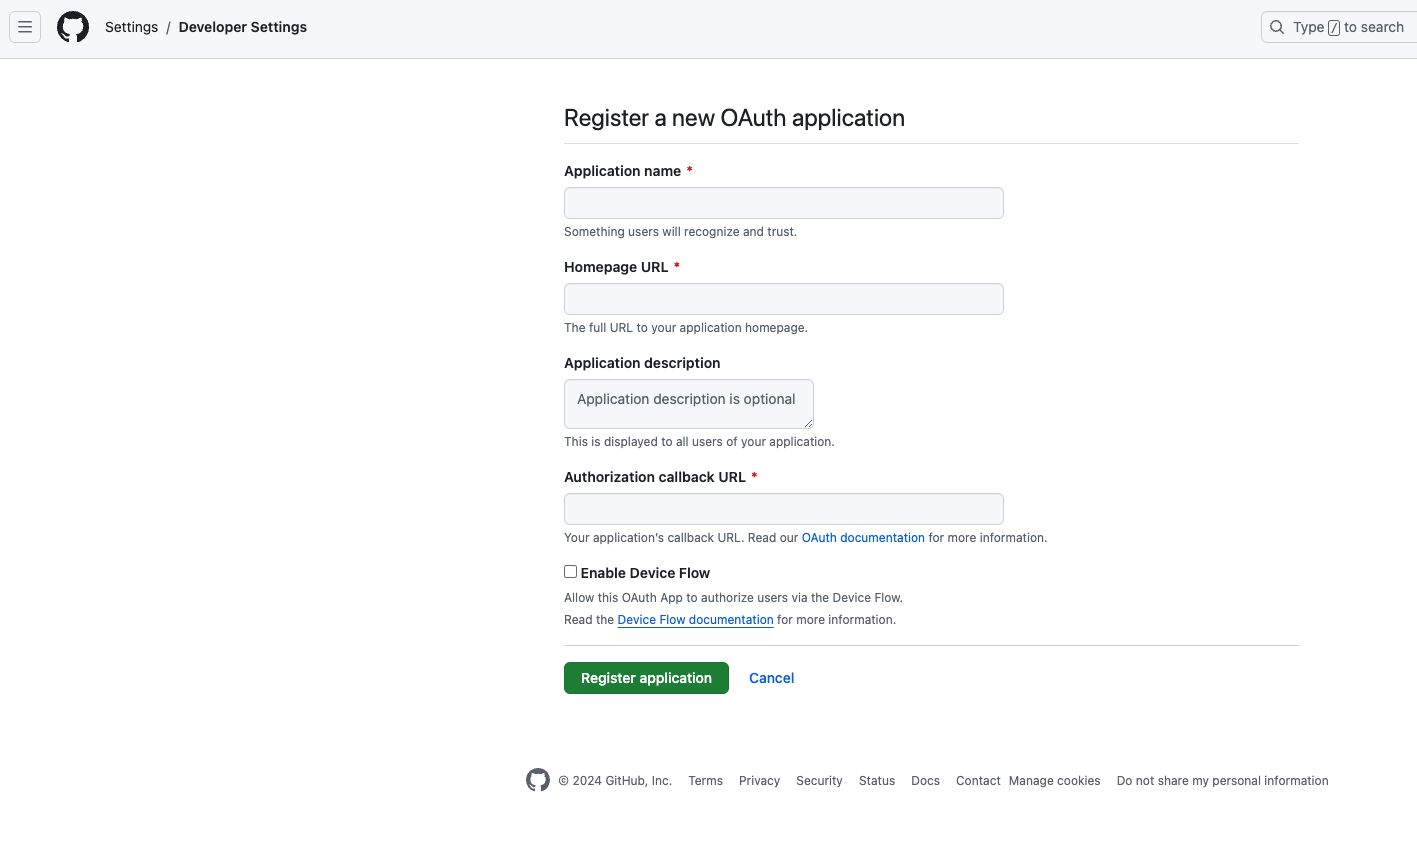
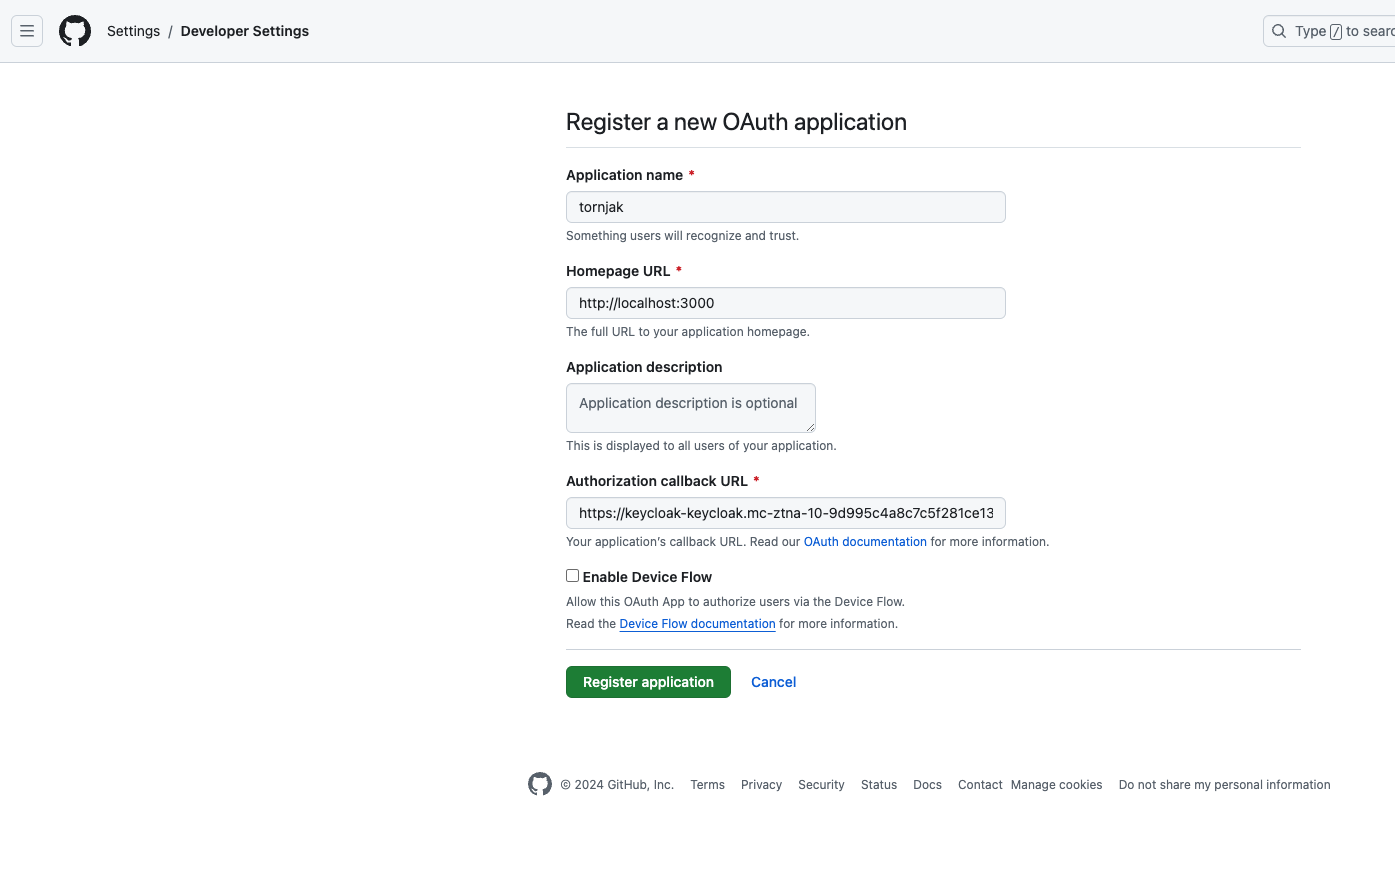
nit

diff --git a/docs/auth/keycloak/keycloak-upstream-IAMs-conf.md b/docs/auth/keycloak/keycloak-upstream-IAMs-conf.md
@@ -24,14 +24,20 @@ The keycloak setup to connect any upstream IAM is pretty much standard. Please f
 
 > [!IMPORTANT] 
 > Make sure you are in the `tornjak` realm or the specific realm Tornjak app is registered on 
-- The `Redirect URI` is automatically set by keycloak, this is the uri you should enter in the `Redirect URI` while creating/ updating your upstream IAM account (check below for specific upstream IAM instuctions). 
-- Fill in the `Client ID` and `Client Secret` generated in the upstream IAM in the respective fields. 
+- The `Redirect URI` is automatically set by keycloak, this is the uri you should enter in the `Redirect URI` section while creating/ updating your upstream IAM account (check below for specific upstream IAM instuctions). 
+- Fill in the `Client ID` and `Client Secret` generated in the upstream IAM in the respective fields. [Go to your upstream IAM account to get the `Client ID` and `Client Secret`]
+- For `Microsoft Azure`single-tenant auth endpoints, fill in the `Tenant ID`. If not specified uses 'common' multi-tenant endpoints. 
 - And click `Add`
 
-- Now when you try signing in to the Tornjak application, you should see the keycloak login page and the upstream IAM as an optional upstream identity provider to sign in to. If you select the upstream IAM, keycloak will redirect you to sign in with the upstream IAM of choice and tornjak will be authenticated using that IAM. 
 > [!IMPORTANT] Make sure you assign appropraite roles within keycloak for your user, or the roles are mapped correctly between the upstream IAM and keycloak. Check the Mappers section for more roles configuration. [****DETAILED MAPPERS SECTION TODO!!!****]
+
+> Now when you try signing in to the Tornjak application, you should see the keycloak login page and the upstream IAM as an optional upstream identity provider to sign in to. If you select the upstream IAM, keycloak will redirect you to sign in with the upstream IAM of choice and tornjak will be authenticated using that IAM. 
+
+### Microsoft
 ![Microsoft Keycloak](diagrams/microsoft-keycloak.png)
+### Github
 ![Github Keycloak](diagrams/github-keycloak.png)
+### Google
 ![Google Keycloak](diagrams/google-keycloak.png)
 
 <details><summary><b> Setup Microsoft Azure Active Directories (AD) as an Upstream Identity Provider </b></summary>
@@ -42,10 +48,19 @@ If you don't have an AD account, follow the instructions below to create one.
 
 - Go to Microsoft Azure portal for your account. 
 - Go to `App registrations` (you can search for it on top)
-- Click on `New Registration` and configure the name and add a `Redirect URI` by selecting `Web` and paste the value of `Redirect URI` from keycloak and Register the application. 
+- Click on `New Registration`
+- Configure the name, kepp the default `Single tenant`directory and add a `Redirect URI` by selecting `Web` and paste the value of `Redirect URI` from keycloak and Register the application. 
+
 ![Microsoft AD](diagrams/microsoft-azure.png)
-- Note the `Applcation (client) ID`
-- On the left hand side go to Manage > Certificates & secrets and click on `New client secret`, give it a description and choose the expiry length ad click `Add` at the bottom. Note the `Value` of the created secret. 
+
+- Note the `Applcation (client) ID`, this is what you use to enter in the `Client ID` field while configuring the IAM on keycloak. 
+- Note the `Directory (tenant) ID`, this is what you will use to enter in the `Tenant ID` field while configuring the IAM on keycloak. 
+
+![Microsoft AD Overview](diagrams/microsoft-azure-overview.png)
+
+- On the left hand side go to Manage > Certificates & secrets and click on `New client secret`, give it a description and choose the expiry length ad click `Add` at the bottom. Note the `Value` of the created secret. This secret is what you will be using as the `Client Secret` to configure the IAM on keycloak. 
+
+![Microsoft AD Secret](diagrams/microsoft-azure-secret.png)
 </details>
 
 <details><summary><b> Setup Github as an Upstream Identity Provider </b></summary>
@@ -60,7 +75,9 @@ If you don't have a Github OAUTH app, follow the instructions below to create on
 - Give your app a name in the `Application name` field such as `tornjak`, your application Homepage URL (http://localhost:3000) and the `Authorization callback URL` should be set to the `Redirect URI` assigned by keycloak. 
 - And register your application. 
 ![Github OAuth](diagrams/github-oauth-app.png)
-- Once the application is registered click on `Generate a new client secret` and keep a note of the `Client ID` and the `Client Secret` generated. 
+- Once the application is registered click on `Generate a new client secret` and keep a note of the `Client ID` and the `Client Secret` generated. This is what you will use to configure upstream IAM on keycloak. 
+
+![Github OAuth Secret](diagrams/github-oauth-app-secret.png)
 </details>
 <details><summary><b> Setup Google as an Upstream Identity Provider </b></summary>
 If you don't have a Google account, follow the instrctions below to create one. 
@@ -71,7 +88,7 @@ If you don't have a Google account, follow the instrctions below to create one.
 ![Google Cloud Console](diagrams/google-cloud-console.png)
 - Go to `APIs & Services` -> `OAuth consent screen` tab on left hand side and select `External` user type consent screen to create a new consent screen. 
 - After creating the consent screen, go to `Credentials` tab on left hand side, click on `CREATE CREDENTIALS` and select `OAuth Client ID`. For `Application type` select `Web application`. Give it a client name, for `Authorized redirect URIs` use the Redirect URI in your keycloak console. 
-- Once you click create note your client id and client secret. 
+- Once you click create note your `Client id` and `Client secret`. This is what you will use to configure upstream IAM on keycloak. 
 ![Google Cloud Credentials](diagrams/google-cloud-credentials.png)
 </details>
 <details><summary><b> Setup Openshift as an Upstream Identity Provider </b></summary>
